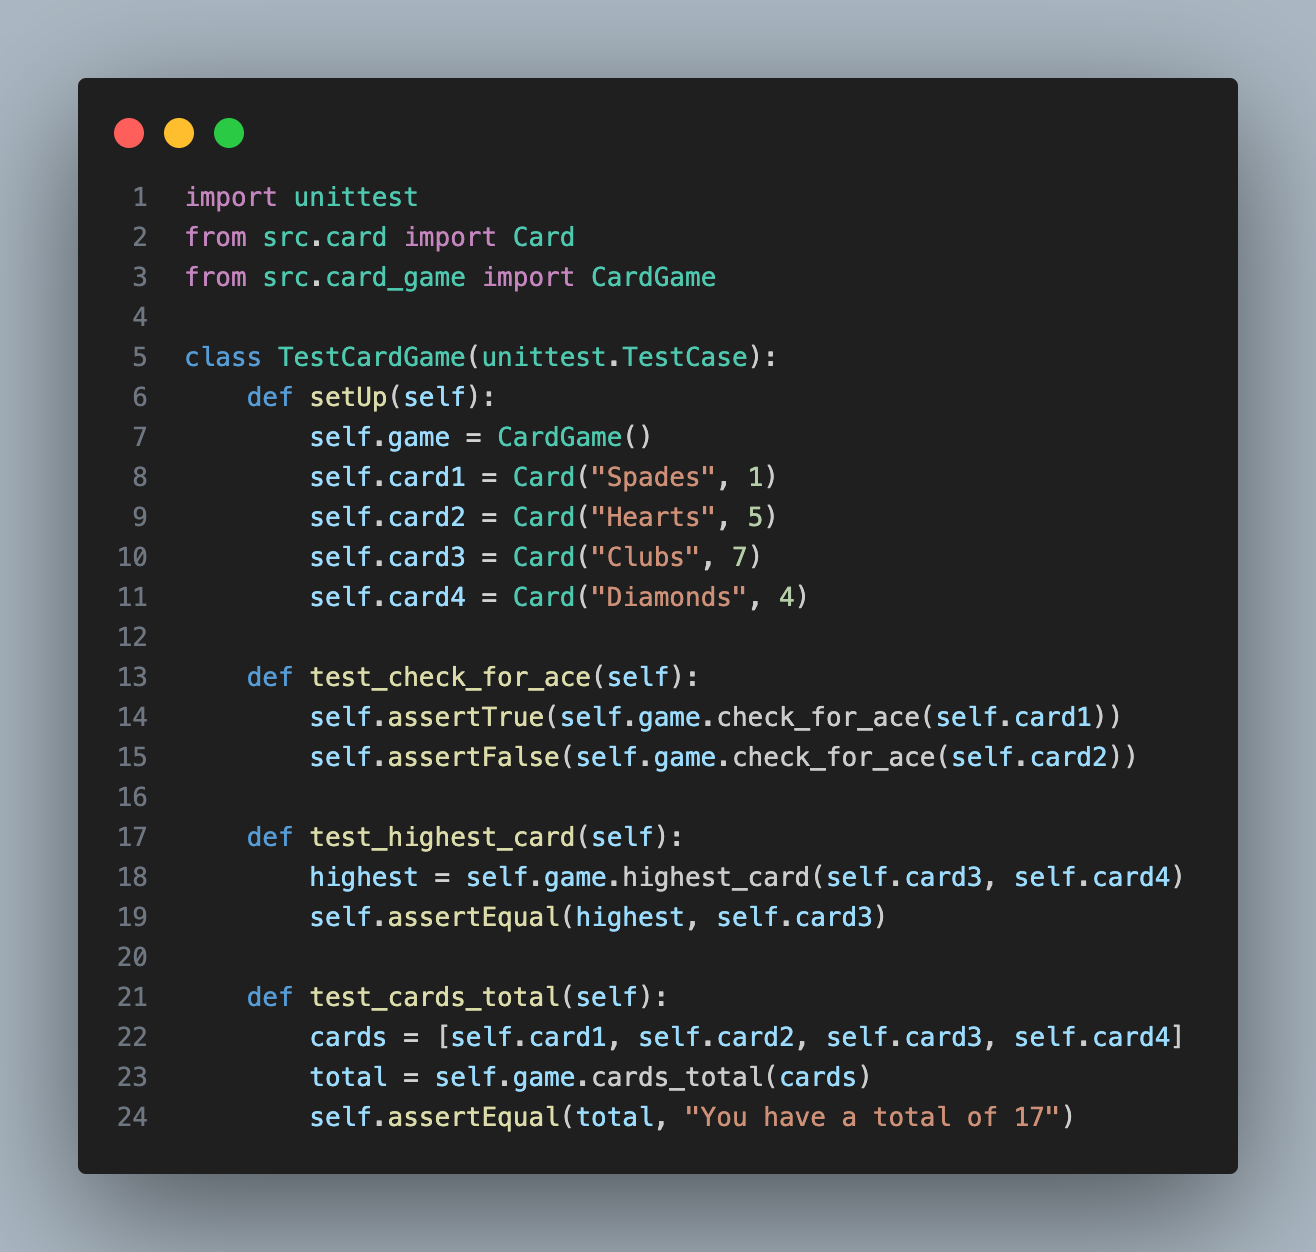
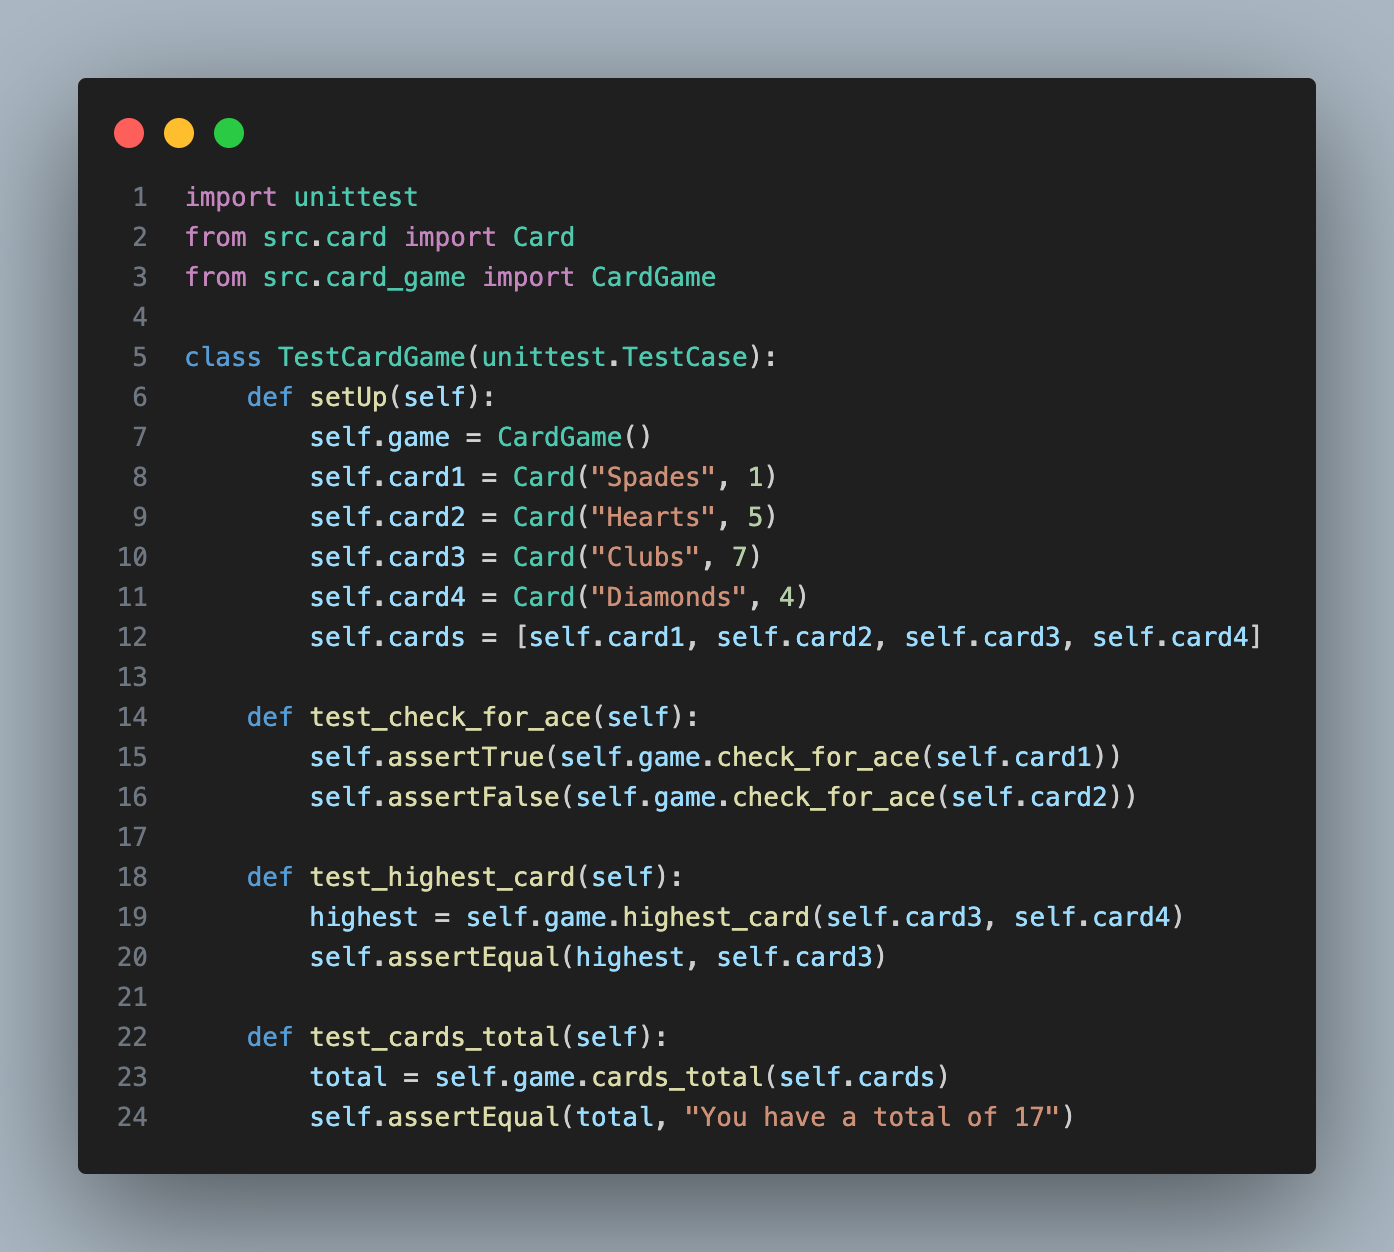
refactored test code

diff --git a/specs/card_game_tests.py b/specs/card_game_tests.py
@@ -9,6 +9,7 @@ class TestCardGame(unittest.TestCase):
         self.card2 = Card("Hearts", 5)
         self.card3 = Card("Clubs", 7)
         self.card4 = Card("Diamonds", 4)
+        self.cards = [self.card1, self.card2, self.card3, self.card4]
 
     def test_check_for_ace(self):
         self.assertTrue(self.game.check_for_ace(self.card1))
@@ -19,6 +20,5 @@ class TestCardGame(unittest.TestCase):
         self.assertEqual(highest, self.card3)
 
     def test_cards_total(self):
-        cards = [self.card1, self.card2, self.card3, self.card4]
-        total = self.game.cards_total(cards)
+        total = self.game.cards_total(self.cards)
         self.assertEqual(total, "You have a total of 17")
